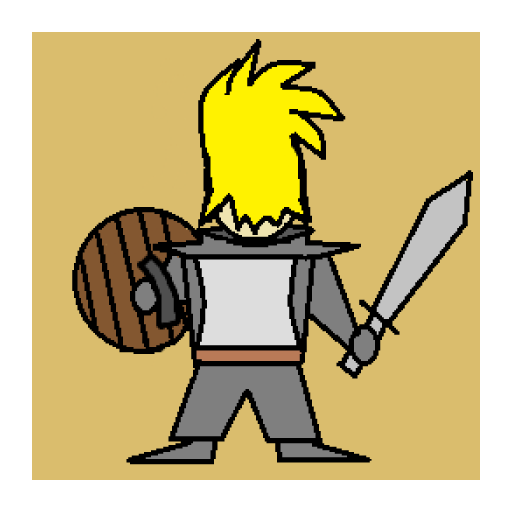
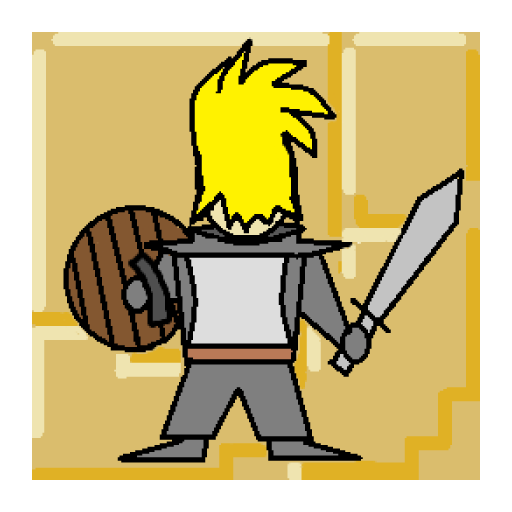
Updated path art

Changed region(s): [[0.0625, 0.0625, 0.9375, 0.9375]]

diff --git a/app/src/main/java/com/sveloso/labyrinth/controller/LabyrinthFragment.java b/app/src/main/java/com/sveloso/labyrinth/controller/LabyrinthFragment.java
@@ -257,7 +257,7 @@ public class LabyrinthFragment extends Fragment {
             mTopLeft.setBackgroundColor(ContextCompat.getColor(getActivity(), R.color.colorWall));
 
         } else if (topLeftType == 1) {
-            mTopLeft.setImageResource(R.mipmap.ic_path);
+            mTopLeft.setImageResource(R.mipmap.ic_new_path);
             mTopLeft.setBackgroundColor(ContextCompat.getColor(getActivity(), R.color.colorPath));
 
         } else if (topLeftType == 2) {
@@ -279,7 +279,7 @@ public class LabyrinthFragment extends Fragment {
             mTopCenter.setBackgroundColor(ContextCompat.getColor(getActivity(), R.color.colorWall));
 
         } else if (topCenterType == 1) {
-            mTopCenter.setImageResource(R.mipmap.ic_path);
+            mTopCenter.setImageResource(R.mipmap.ic_new_path);
             mTopCenter.setBackgroundColor(ContextCompat.getColor(getActivity(), R.color.colorPath));
 
         } else if (topCenterType == 2) {
@@ -301,7 +301,7 @@ public class LabyrinthFragment extends Fragment {
             mTopRight.setBackgroundColor(ContextCompat.getColor(getActivity(), R.color.colorWall));
 
         } else if (topRightType == 1) {
-            mTopRight.setImageResource(R.mipmap.ic_path);
+            mTopRight.setImageResource(R.mipmap.ic_new_path);
             mTopRight.setBackgroundColor(ContextCompat.getColor(getActivity(), R.color.colorPath));
 
         } else if (topRightType == 2) {
@@ -325,7 +325,7 @@ public class LabyrinthFragment extends Fragment {
             mCenterLeft.setBackgroundColor(ContextCompat.getColor(getActivity(), R.color.colorWall));
 
         } else if (centerLeftType == 1) {
-            mCenterLeft.setImageResource(R.mipmap.ic_path);
+            mCenterLeft.setImageResource(R.mipmap.ic_new_path);
             mCenterLeft.setBackgroundColor(ContextCompat.getColor(getActivity(), R.color.colorPath));
 
         } else if (centerLeftType == 2) {
@@ -347,7 +347,7 @@ public class LabyrinthFragment extends Fragment {
             mCenterRight.setBackgroundColor(ContextCompat.getColor(getActivity(), R.color.colorWall));
 
         } else if (centerRightType == 1) {
-            mCenterRight.setImageResource(R.mipmap.ic_path);
+            mCenterRight.setImageResource(R.mipmap.ic_new_path);
             mCenterRight.setBackgroundColor(ContextCompat.getColor(getActivity(), R.color.colorPath));
 
         } else if (centerRightType == 2) {
@@ -370,7 +370,7 @@ public class LabyrinthFragment extends Fragment {
             mBottomLeft.setImageResource(R.mipmap.ic_walls);
             mBottomLeft.setBackgroundColor(ContextCompat.getColor(getActivity(), R.color.colorWall));
         } else if (bottomLeftType == 1) {
-            mBottomLeft.setImageResource(R.mipmap.ic_path);
+            mBottomLeft.setImageResource(R.mipmap.ic_new_path);
             mBottomLeft.setBackgroundColor(ContextCompat.getColor(getActivity(), R.color.colorPath));
         } else if (bottomLeftType == 2) {
             mBottomLeft.setImageResource(R.mipmap.ic_exit);
@@ -389,7 +389,7 @@ public class LabyrinthFragment extends Fragment {
             mBottomCenter.setImageResource(R.mipmap.ic_walls);
             mBottomCenter.setBackgroundColor(ContextCompat.getColor(getActivity(), R.color.colorWall));
         } else if (bottomCenterType == 1) {
-            mBottomCenter.setImageResource(R.mipmap.ic_path);
+            mBottomCenter.setImageResource(R.mipmap.ic_new_path);
             mBottomCenter.setBackgroundColor(ContextCompat.getColor(getActivity(), R.color.colorPath));
 
         } else if (bottomCenterType == 2) {
@@ -411,7 +411,7 @@ public class LabyrinthFragment extends Fragment {
             mBottomRight.setBackgroundColor(ContextCompat.getColor(getActivity(), R.color.colorWall));
 
         } else if (bottomRightType == 1) {
-            mBottomRight.setImageResource(R.mipmap.ic_path);
+            mBottomRight.setImageResource(R.mipmap.ic_new_path);
             mBottomRight.setBackgroundColor(ContextCompat.getColor(getActivity(), R.color.colorPath));
 
         } else if (bottomRightType == 2) {
